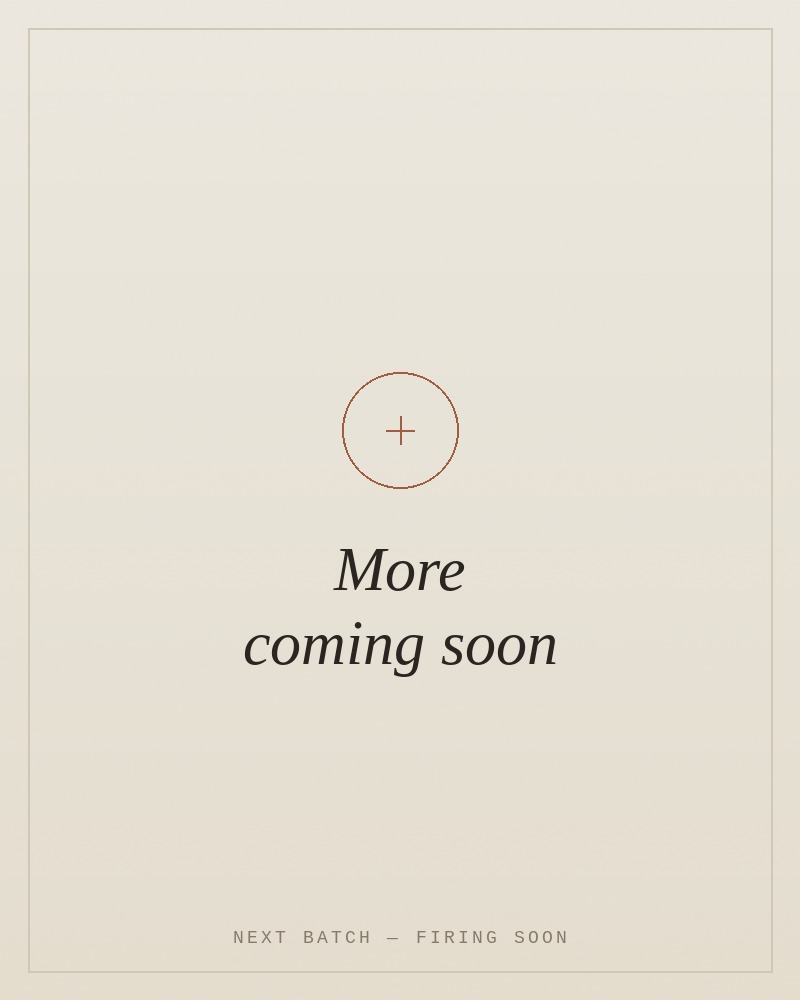
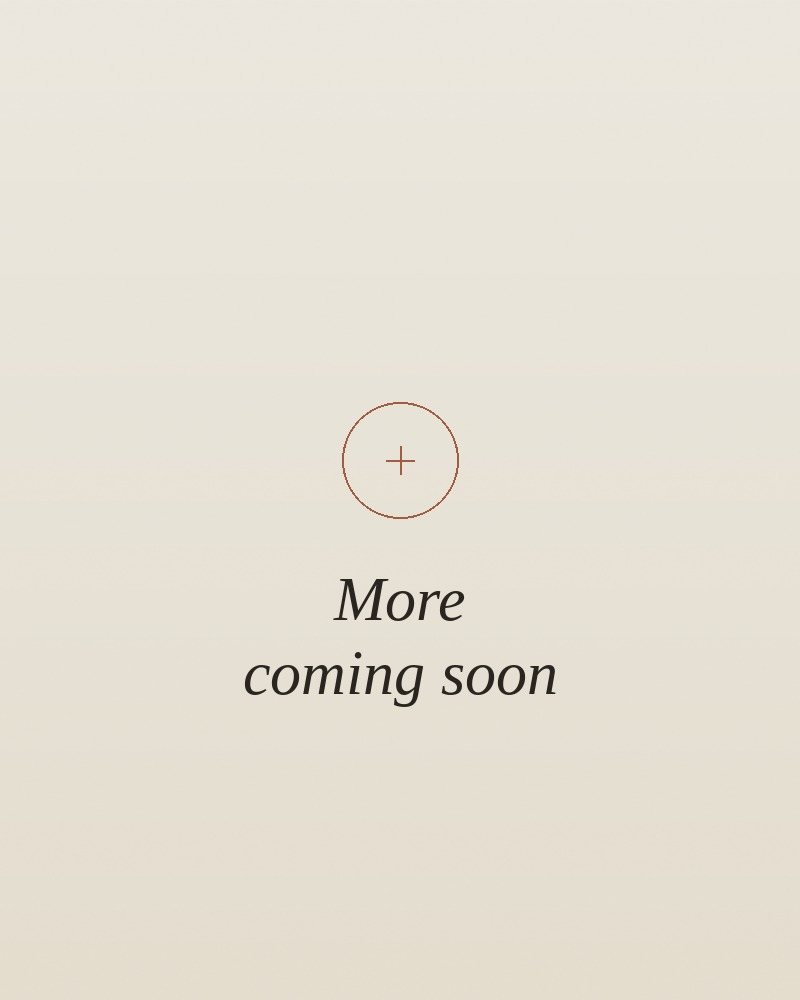
shop update

diff --git a/shop.html b/shop.html
@@ -89,9 +89,9 @@
   <button type="button" class="add-cart-btn">+ Add to cart</button>
 </article>
 
-        <button class="product p3" data-id="mug" tabindex="0" role="button" aria-label="View Mug details"
+        <article class="product p3" data-id="mug" tabindex="0" role="button" aria-label="View Mug details"
           data-title="Mug"
-          data-price="$46"
+          data-price="$38"
           data-desc="Text. 16cm diameter."
           data-buy="https://buy.stripe.com/REPLACE_ME_3"
           data-images="images/shop/winterwood-mug-1.jpg,images/shop/winterwood-mug-2.jpg,images/shop/winterwood-mug-3.jpg,images/shop/winterwood-mug-4.jpg">
@@ -100,11 +100,13 @@
             <span class="product-name">Mug</span>
             <span class="product-price">$38</span>
           </span>
-        </button>
+            <button type="button" class="add-cart-btn">+ Add to cart</button>
+        </article>
 
-        <button type="button" class="product p4"
+
+        <article class="product p4" data-id="sand-mug" tabindex="0" role="button" aria-label="View Mug details"
           data-title="Sand Mug"
-          data-price="$68"
+          data-price="$35"
           data-desc="Text. 22cm tall, holds 1L."
           data-buy="https://buy.stripe.com/REPLACE_ME_4"
           data-images="images/shop/sand-mug-1.jpg,images/shop/sand-mug-2.jpg,images/shop/sand-mug-3.jpg,images/shop/sand-mug-4.jpg">
@@ -113,11 +115,12 @@
             <span class="product-name">Sand Mug</span>
             <span class="product-price">$35</span>
           </span>
-        </button>
+            <button type="button" class="add-cart-btn">+ Add to cart</button>
+        </article>
 
-        <button type="button" class="product p5"
+        <article class="product p5" data-id="speckled-bowl" tabindex="0" role="button" aria-label="View Mug details"
           data-title="Speckled Bowl"
-          data-price="$54"
+          data-price="$49"
           data-desc="Text. 8cm each."
           data-buy="https://buy.stripe.com/8x24gAc4A3ti2FFdyQcIE03"
           data-images="images/shop/winterwood-bowl-1.jpg,images/shop/winterwood-bowl-2.jpg,images/shop/winterwood-bowl-3.jpg,images/shop/winterwood-bowl-4.jpg">
@@ -126,7 +129,8 @@
             <span class="product-name">Speckled Bowl</span>
             <span class="product-price">$49</span>
           </span>
-        </button>
+            <button type="button" class="add-cart-btn">+ Add to cart</button>
+        </article>
 
 <div class="product product-soon">
   <div class="product-photo">

diff --git a/styles.css b/styles.css
@@ -446,12 +446,12 @@
 .product:hover .product-photo::after{opacity:.85;}
 .product.p1{
   background-image:url('images/shop/brown-jar-1.jpg');
-  background-size:cover;
+  background-size:150%;
   background-position:center;
 }
 .product.p2{
   background-image:url('images/shop/winterwood-cup-1.jpg');
-  background-size:cover;
+  background-size:150%;
   background-position:center;
 }
 .product.p3{
@@ -554,11 +554,12 @@ body.modal-open{overflow:hidden;}
   font-family:'IBM Plex Mono', monospace; font-size:11.5px; letter-spacing:.12em;
   text-transform:uppercase; color:var(--stone-dark);
   display:flex; align-items:center; gap:6px;
+  padding: 0px 0px 5px;
 }
 .cart-toggle:hover{color:var(--ink);}
 .cart-count{
   background:var(--clay); color:var(--linen); border-radius:50%;
-  width:18px; height:18px; display:inline-flex; align-items:center; justify-content:center;
+  width:20px; height:20px; display:inline-flex; align-items:center; justify-content:center;
   font-size:10px;
 }
 

diff --git a/index.html b/index.html
@@ -28,6 +28,10 @@
       <a href="https://www.instagram.com/alonaceramics" class="nav-link" aria-label="Instagram" target="_blank" style="display:flex; align-items:center; gap:6px;">
         <span class="ig" aria-hidden="true"></span> IG
       </a>
+      <button type="button" class="cart-toggle" id="cartToggle" aria-label="Open cart">
+        CART <span class="cart-count" id="cartCount">0</span>
+      </button>
+    </div>
     </div>
   </div>
 </header>

diff --git a/contact.html b/contact.html
@@ -28,6 +28,9 @@
       <a href="https://www.instagram.com/alonaceramics" class="nav-link" aria-label="Instagram" target="_blank" style="display:flex; align-items:center; gap:6px;">
         <span class="ig" aria-hidden="true"></span> IG
       </a>
+      <button type="button" class="cart-toggle" id="cartToggle" aria-label="Open cart">
+        CART <span class="cart-count" id="cartCount">0</span>
+      </button>
     </div>
   </div>
 </header>
